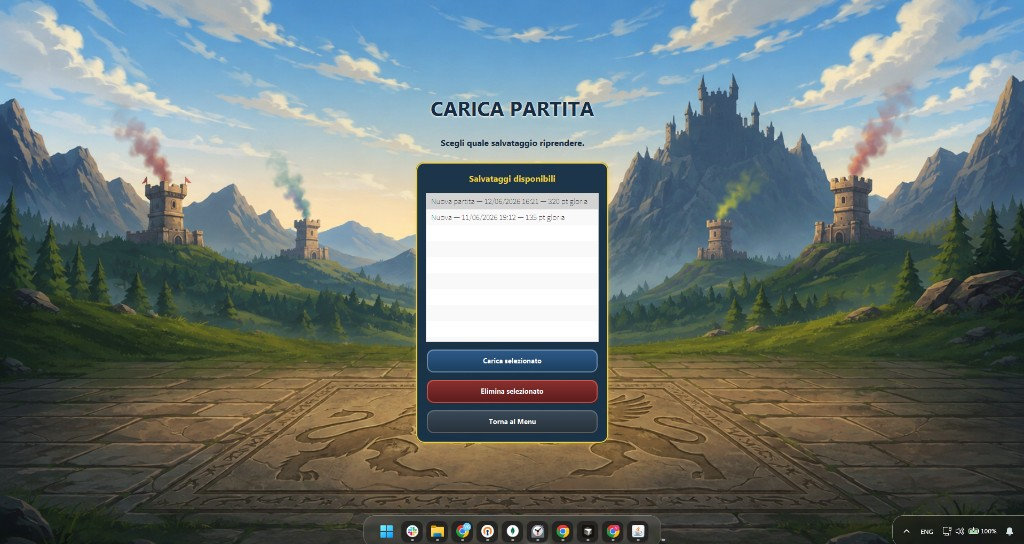
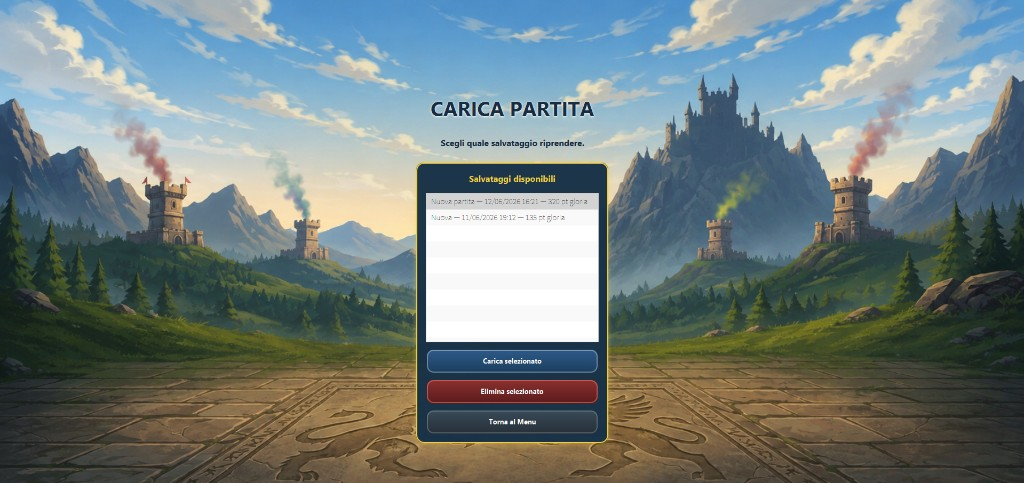
Aggiornati screenshot wiki con link raw e larghezza ottimizzata

diff --git a/.github/wiki-pages/Funzionalita-implementate.md b/.github/wiki-pages/Funzionalita-implementate.md
@@ -27,7 +27,7 @@ Tutte le schermate sono JavaFX con file FXML in `src/main/resources/fxml/`:
 | Battaglia | `Battle.fxml` | `BattleController` |
 | Vittoria | `Victory.fxml` | `VictoryController` |
 
-Sotto trovi alcuni screenshot presi dall'applicazione in esecuzione, così si capisce meglio il flusso oltre al diagramma.
+Sotto trovi alcuni screenshot presi dall'applicazione in esecuzione (clic per aprirli a dimensione piena). Li mostro a **640px** di larghezza così su GitHub restano nitidi e non vengono ingranditi oltre la risoluzione originale.
 
 I controller non parlano con Hibernate: passano da `GameModel`. La navigazione tra schermate la gestisce `ScreenNavigator`, le schermate le monta `ScreenFactory` usando i path in `FxmlPaths`.
 
@@ -35,7 +35,11 @@ I controller non parlano con Hibernate: passano da `GameModel`. La navigazione t
 
 ## Menu principale
 
-![Menu principale — nuova partita, carica, esci](images/menu-principale.png)
+<p align="center">
+  <a href="https://raw.githubusercontent.com/ValerioGiglio04/rpg-MPGC/main/.github/wiki-pages/images/menu-principale.png">
+    <img src="https://raw.githubusercontent.com/ValerioGiglio04/rpg-MPGC/main/.github/wiki-pages/images/menu-principale.png" alt="Menu principale" width="640">
+  </a>
+</p>
 
 - **Nuova partita** — `NewGameService` crea il primo `GameState` dal catalogo.
 - **Carica partita** — apre la lista slot (tabella `sessioni_salvate`); il pulsante è attivo solo se esiste almeno un save.
@@ -47,7 +51,11 @@ Se il caricamento fallisce mostro un alert e resto al menu.
 
 ## Carica partita
 
-![Lista slot salvati con carica, elimina e ritorno al menu](images/carica-partita.png)
+<p align="center">
+  <a href="https://raw.githubusercontent.com/ValerioGiglio04/rpg-MPGC/main/.github/wiki-pages/images/carica-partita.png">
+    <img src="https://raw.githubusercontent.com/ValerioGiglio04/rpg-MPGC/main/.github/wiki-pages/images/carica-partita.png" alt="Carica partita" width="640">
+  </a>
+</p>
 
 Dalla schermata **Carica partita** si vedono nome slot, data/ora e gloria al momento del save. Si può caricare, eliminare uno slot o tornare al menu. I metadati arrivano da `GameStateRepository.listSaves()`; il dettaglio partita è nel JSON descritto in [Persistenza](https://github.com/ValerioGiglio04/rpg-MPGC/wiki/Dati-e-persistenza).
 
@@ -55,7 +63,11 @@ Dalla schermata **Carica partita** si vedono nome slot, data/ora e gloria al mom
 
 ## Hub (overworld)
 
-![Hub con mappa, team a sinistra e zoom sulla griglia](images/hub-overworld.png)
+<p align="center">
+  <a href="https://raw.githubusercontent.com/ValerioGiglio04/rpg-MPGC/main/.github/wiki-pages/images/hub-overworld.png">
+    <img src="https://raw.githubusercontent.com/ValerioGiglio04/rpg-MPGC/main/.github/wiki-pages/images/hub-overworld.png" alt="Hub overworld" width="640">
+  </a>
+</p>
 
 È la schermata principale di gioco:
 
@@ -67,7 +79,11 @@ Dalla schermata **Carica partita** si vedono nome slot, data/ora e gloria al mom
 - **Team** — lista creature con carta cliccabile per cambiare quella attiva; **cura a pagamento** in gloria (`HealingService`, costo spiegato in tooltip da `HubPresenter`).
 - **Menu hamburger** — salva, salva come nuovo slot, torna al menu.
 
-![Menu hamburger nell'hub — salva, salva come nuovo, torna al menu](images/hub-menu-salvataggio.png)
+<p align="center">
+  <a href="https://raw.githubusercontent.com/ValerioGiglio04/rpg-MPGC/main/.github/wiki-pages/images/hub-menu-salvataggio.png">
+    <img src="https://raw.githubusercontent.com/ValerioGiglio04/rpg-MPGC/main/.github/wiki-pages/images/hub-menu-salvataggio.png" alt="Menu salvataggio hub" width="640">
+  </a>
+</p>
 
 - Se hai già finito tutte le palestre, entrando nell'hub vai diretto alla schermata **Vittoria**.
 
@@ -75,7 +91,11 @@ Dalla schermata **Carica partita** si vedono nome slot, data/ora e gloria al mom
 
 ## Combattimento a turni
 
-![Schermata battaglia — mosse, cronaca, arena e team](images/battaglia.png)
+<p align="center">
+  <a href="https://raw.githubusercontent.com/ValerioGiglio04/rpg-MPGC/main/.github/wiki-pages/images/battaglia.png">
+    <img src="https://raw.githubusercontent.com/ValerioGiglio04/rpg-MPGC/main/.github/wiki-pages/images/battaglia.png" alt="Schermata battaglia" width="640">
+  </a>
+</p>
 
 - Puoi sfidare solo se `GameState.canChallengeGym(gym)` è vero (palestra non completata, raggiungibile, punti ok).
 - All'inizio di un nuovo tentativo `BattleService` resetta gli HP di entrambi i team e sceglie la prima creatura viva per lato.

diff --git a/.github/wiki-pages/Home.md b/.github/wiki-pages/Home.md
@@ -12,7 +12,11 @@ Ho scelto di fare un RPG a palestre in stile Pokémon: si esplora una mappa, si 
 
 L'applicazione ha **interfaccia grafica** (JavaFX + FXML) e **persistenza** dei salvataggi su file H2 locale. Il codice sta nel package `it.unicam.cs.mpgc.rpg125664`, come richiesto dalla specifica.
 
-![Hub di gioco — mappa overworld e gestione team](images/hub-overworld.png)
+<p align="center">
+  <a href="https://raw.githubusercontent.com/ValerioGiglio04/rpg-MPGC/main/.github/wiki-pages/images/hub-overworld.png">
+    <img src="https://raw.githubusercontent.com/ValerioGiglio04/rpg-MPGC/main/.github/wiki-pages/images/hub-overworld.png" alt="Hub di gioco" width="640">
+  </a>
+</p>
 
 Screenshot e descrizione schermata per schermata in [Funzionalità](https://github.com/ValerioGiglio04/rpg-MPGC/wiki/Funzionalita-implementate).
 
